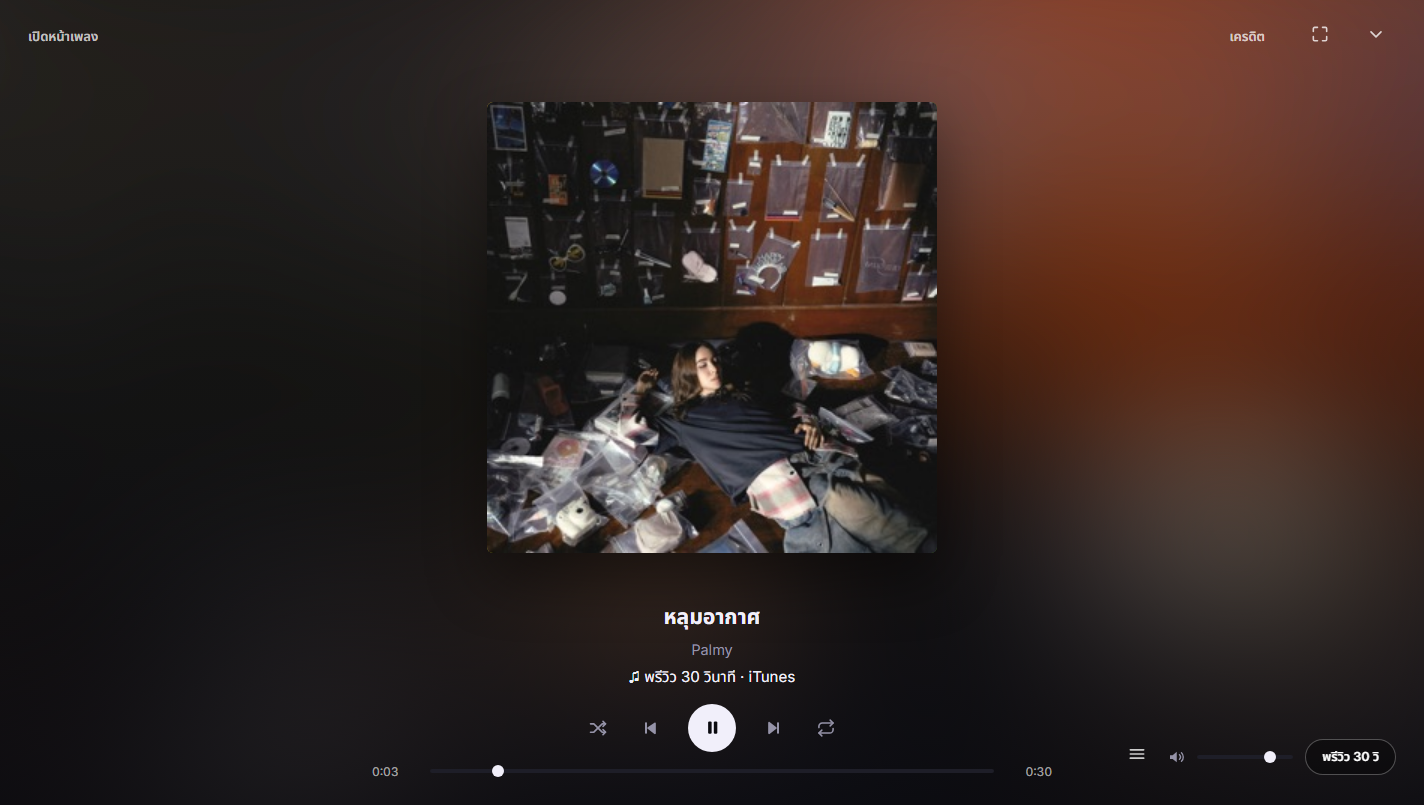
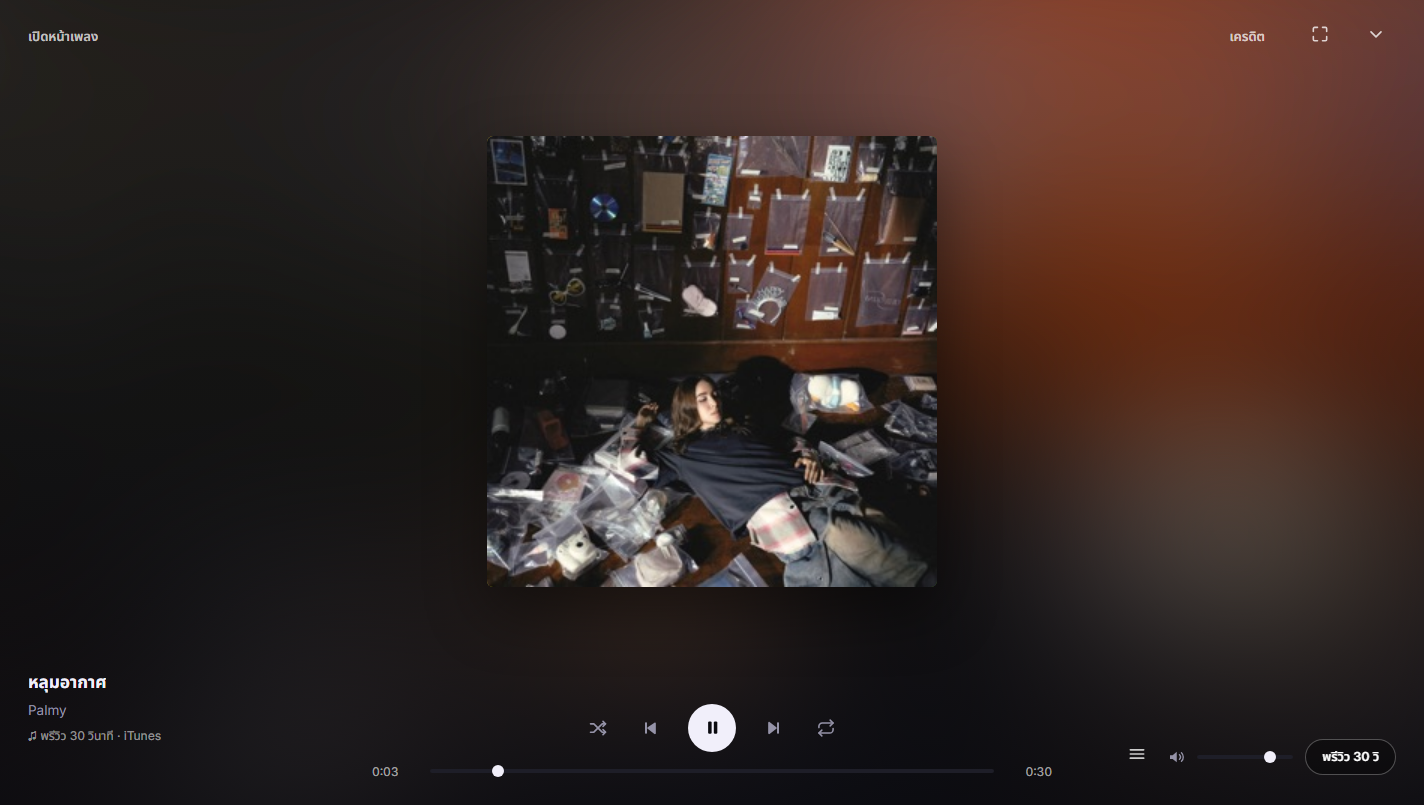
fix(css): repair a brace that the split left across player/pages; desktop full-screen player keeps the title bottom-left

Changed region(s): [[0.3399, 0.1242, 0.6798, 0.7764], [0.0, 0.8385, 0.1236, 0.9317], [0.4326, 0.8075, 0.5562, 0.8696]]

diff --git a/app/static/css/player.css b/app/static/css/player.css
@@ -414,6 +414,8 @@ body.np-open { overflow: hidden; }
   .np-full-cover { width: min(42vh, 76vw, 360px); height: min(42vh, 76vw, 360px); font-size: 64px; }
   .np-full-bottom { grid-template-columns: 1fr; gap: 12px; text-align: center; }
   .np-full-info { align-items: center; }
+  .np-full-right { justify-content: center; }
+}
 
 /* --- balance pass: keep the centre column readable on smaller screens --- */
 @media (max-width: 1080px) {
@@ -436,4 +438,26 @@ body.np-open { overflow: hidden; }
 @media (max-height: 620px) {
   .np-full-cover { width: min(44vh, 30vw); height: min(44vh, 30vw); }
   .np-full { gap: 6px; }
+}
+
+/* --- desktop: song title back in the bottom-left corner (mobile keeps the centred stack) --- */
+@media (min-width: 761px) {
+  .np-full-bottom {
+    display: grid;
+    grid-template-columns: minmax(0, 1fr) auto minmax(0, 1fr);
+    align-items: end;
+    gap: 20px;
+    max-width: none;
+    width: 100%;
+    margin: 0;
+  }
+  .np-full-info {
+    align-items: flex-start;
+    text-align: left;
+    padding-bottom: 6px;
+  }
+  .np-full-title { font-size: 17px; }
+  .np-full-artist { font-size: 13.5px; }
+  .np-full-center { justify-self: center; width: auto; }
+  .np-full-progress { max-width: 680px; }
 }

diff --git a/app/static/css/pages.css b/app/static/css/pages.css
@@ -1,8 +1,6 @@
 /* Plern — page-specific bits (settings, pager, ambient, avatars)
    Loaded after base.css; order matters for the cascade. */
 
-  .np-full-right { justify-content: center; }
-}
 
 
 
